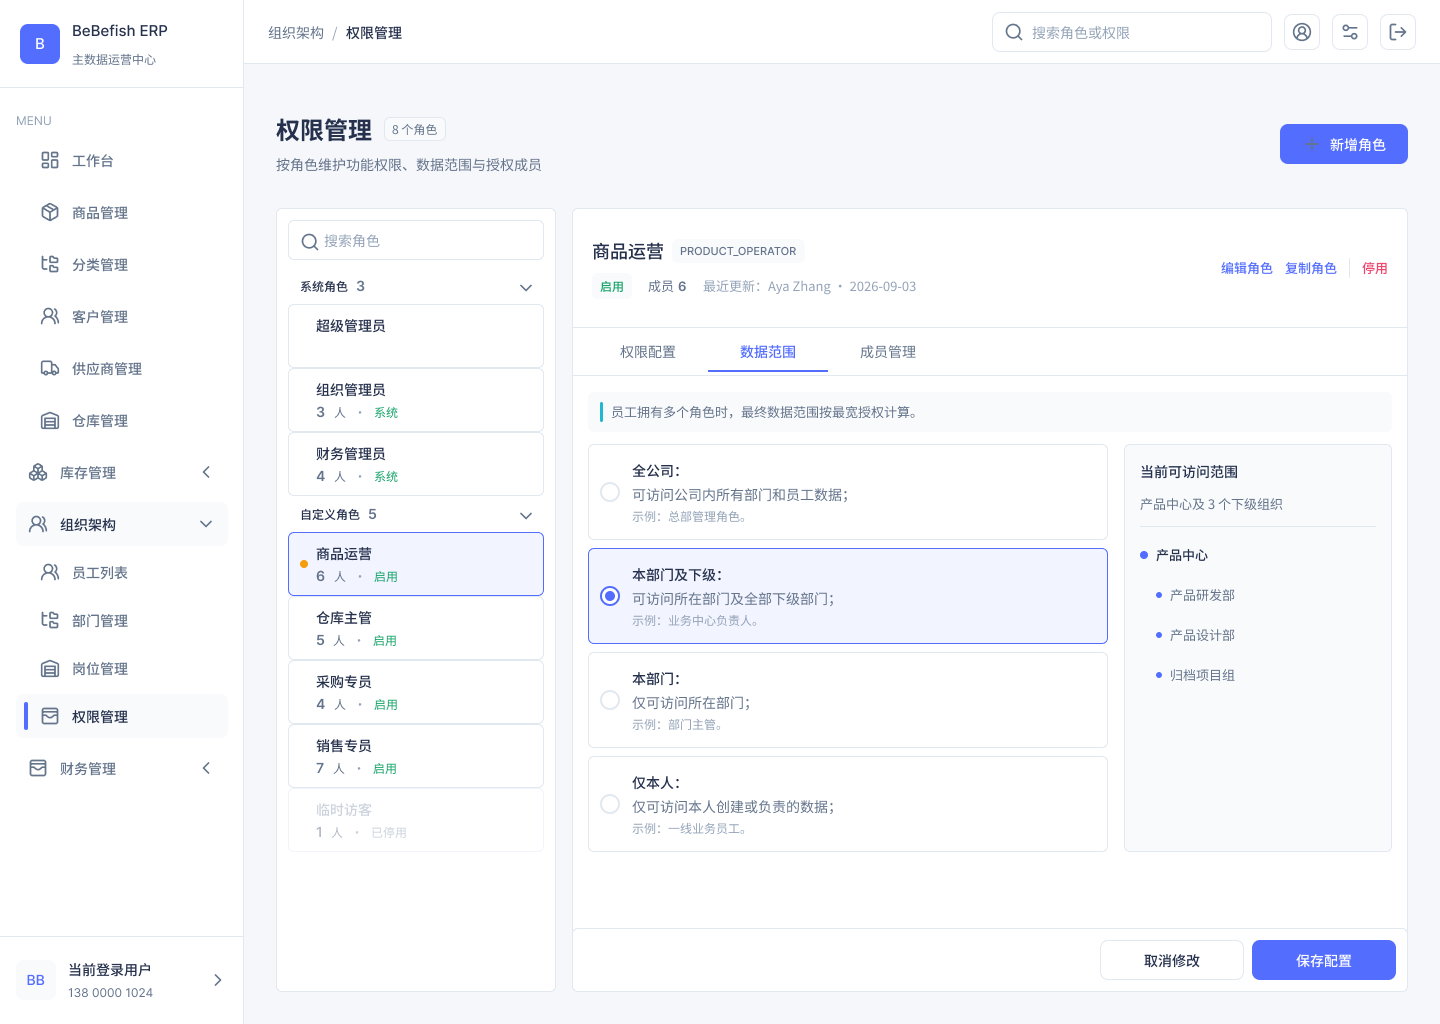
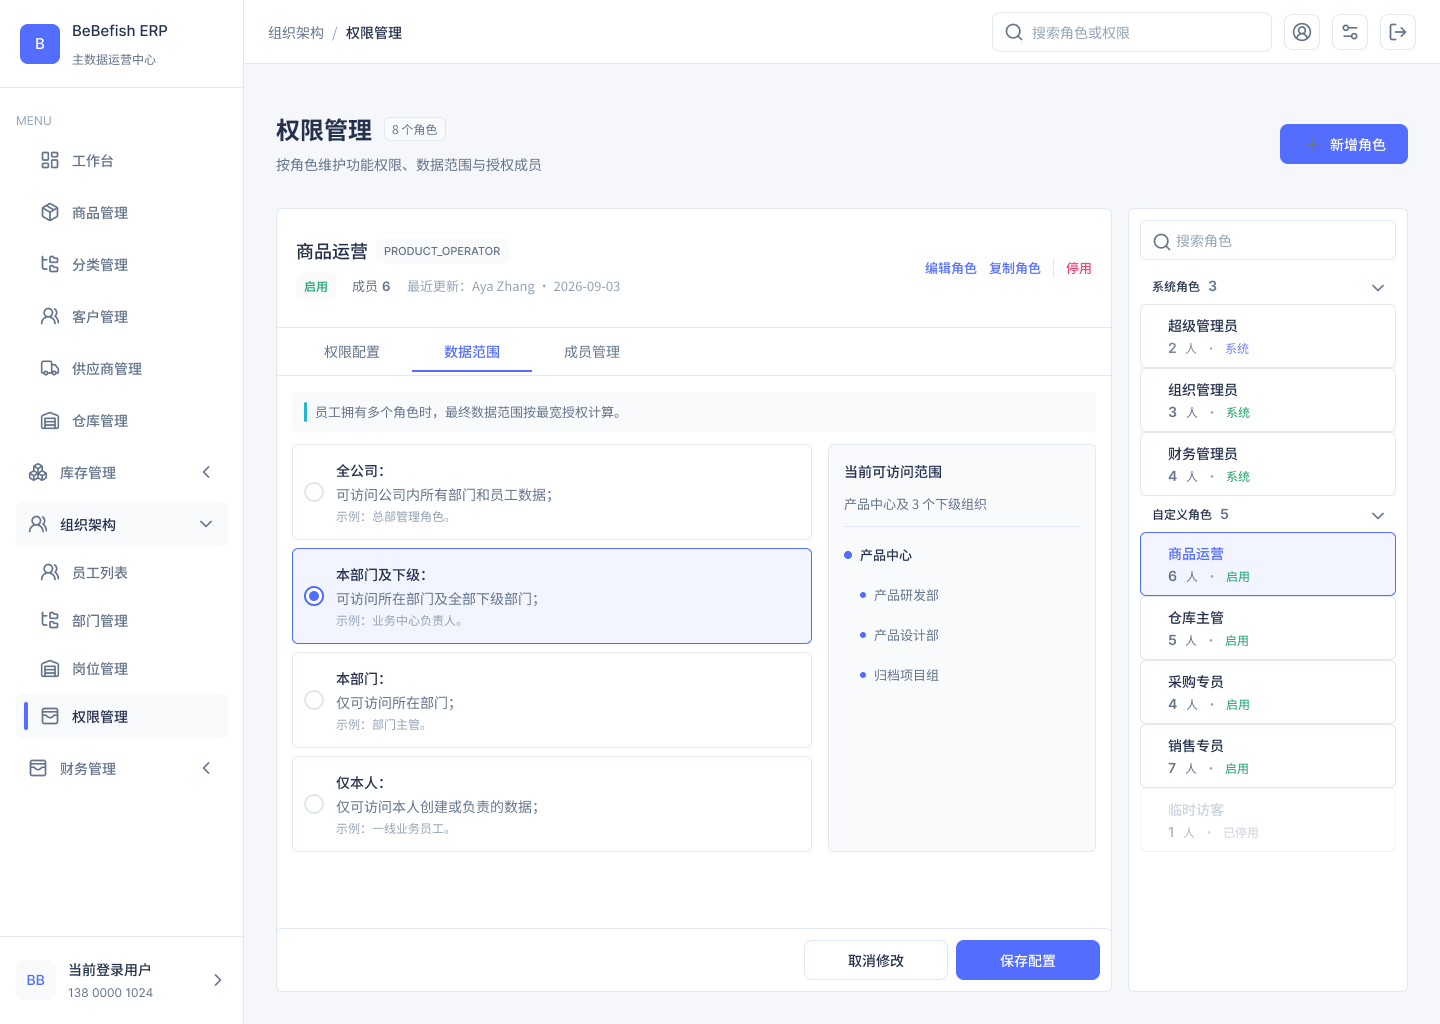
fix: complete permission prototype semantics

diff --git a/docs/superpowers/plans/2026-09-04-permission-management-figma-prototype.md b/docs/superpowers/plans/2026-09-04-permission-management-figma-prototype.md
@@ -609,13 +609,15 @@ Provide the user with the Figma prototype URL, the four local screenshot links, 
 
 ### Task 9: Final Review Against The Approved Spec
 
-- Status: `DONE`. Controller ruling preserved: acceptance states are interactive component variants and in-frame overlays inside the four accepted deliverables; auxiliary sets `641:14385`, `684:15789`, and `699:16557` remain in permission section `538:10667`, and no fifth deliverable was created.
+- Status: `DONE` after Fix Round 2. The controller ruling is preserved: exactly four top-level deliverables remain, while interactive acceptance states use in-frame overlays and auxiliary component sets `641:14385`, `684:15789`, `699:16557`, `740:18643`, and `741:18927` inside permission section `538:10667`; no fifth deliverable was created.
 - Six-section verdicts: 授权模型 `PASS`; 页面布局 `PASS`; 原型画面 `PASS`; 交互与状态 `PASS`; 视觉规范 `PASS`; 原型验收 `PASS`.
 - Figma: `https://www.figma.com/design/jIz9HNkSoXH63gvTc3yOtj/BeBefish-ERP-%E2%80%94-Master-Data-UI?node-id=572-11100&p=f`; file `jIz9HNkSoXH63gvTc3yOtj`, page `1:3`, permission section `538:10667`.
-- Exact deliverables: matrix `572:11100`, data scope `600:11953`, member management `622:12746`, and create-role drawer `626:13258`. Each is a direct child of `538:10667` and exactly `1440x1024`.
-- Presentation replay passed: initial Super Admin read-only; selectable Organization Admin read-only; current-role-hidden filter and clear; role-empty recovery; View-removal cancel/confirm and dependent-operation clearing; Add Member search/tree/select/batch-add, duplicate summary, and member-empty recovery; visible Save -> Saving -> Error -> Retry -> Success with switching/tabs/repeat-submit locked while Saving; deactivation cancel/confirm with affected-member count; all three tabs; Add Role, close/cancel, and Create returning to the selected editable role.
-- Focused Save fix mutated visible sources `I641:14012;548:10717` and `I693:14561;548:10717`, and moved saving notice `689:14487` to `12,730` within its `280x784` variant. Obsolete out-of-bounds helpers `692:14454`, `693:14513`, `693:14562`, `693:14611`, `696:15609`, and `696:15658` were deleted.
-- Final audits passed: `621` effectively visible deliverable instances with `0` orphan components; `181` Inter and `1669` Noto Sans SC styled segments across deliverables and acceptance sets; `0` font mismatches; `0` nonzero letter spacing; approved semantic color/token variables present; `110` reaction sources across `23` audited roots; `0` placeholders, visual overflow, or reaction-source overflow. Protected organization section `499:9745` remains unchanged with its five original frames.
[1 lines of base64/hex data omitted]
-- Repository scope before commit contains only this plan, the refreshed member screenshot, and the five explicitly allowed unrelated organization Vue/test edits. All four approved screenshot paths are included in the scoped staging command; Git records only the member PNG because the other three refreshed exports are byte-identical to their accepted versions.
+- Exact deliverables: matrix `572:11100`, data scope `600:11953`, member management `622:12746`, and create-role drawer `626:13258`; each is a direct child of `538:10667` and exactly `1440x1024`. Protected organization section `499:9745` remains `22720,0`, `4800x2368`, with children `499:9746`, `499:9909`, `499:10072`, `499:10235`, and `499:10398`.
+- Deterministic replay passed for Super Admin, Organization Admin, Product Operator, and newly created `CHANNEL_OPERATOR` across matrix/data/member tabs. System roles remain read-only; custom/new roles remain editable. Role filtering, clear/back, role/member empty recovery, Add Role close/cancel/Create, View-removal cancel/confirm, dependent-operation auto-selection, all unsaved-leave cancel/confirm routes, and deactivation cancel/confirm are reachable without dead ends.
+- Save preservation passed. Ordinary states keep the exact `3 Checked + 44 Unchecked + 13 NotApplicable` permission signature through Saving/Error/Retry/Success; View-cleared states keep `0 Checked + 47 Unchecked + 13 NotApplicable`. Visible Save and Retry sources enter origin-specific Saving variants, all six Saving variants have zero descendant reactions, Error preserves edits, and both Success variants show `最近更新：张振亚 · 刚刚` plus `保存成功`.
+- Add Member passed. The visible keyword control and 华东区域/产品中心 tree options reach candidate lists of `1`, `2`, and `2` members with clear paths. All eight selection combinations for 张晓/王晨/陈雯 are coherent; batch addition reports `3 processed = 2 added + 1 duplicate skipped`, updates the role count to `8`, renders the added identities in the result summary, and shows `共 8 人`.
+- Unique role creation passed with `渠道运营` / `CHANNEL_OPERATOR`, visible uniqueness success, selected editable matrix/data/member contexts, and RoleEmpty recovery. All four reviewed paginator `1` segments use Inter Regular with `0px` letter spacing.
+- Final audits passed: exact geometry/parents/names; component ancestry with `0` orphans; `271` reaction sources and `662` actions with `0` out-of-bounds sources, bad targets, or dead variants; `4221` text segments using only Inter/Noto Sans SC with `0` nonzero letter spacing; approved semantic tokens and radii with maximum non-circular radius `8`; `0` placeholders or audited-root overflow; and unchanged protected organization geometry.
[1 lines of base64/hex data omitted]
+- Repository scope is restricted to this Task 9 plan and the changed permission PNGs. The five pre-existing organization Vue/test edits remain unstaged and untouched.
 - Limitation: this is a Figma-only prototype. It does not implement or prove backend authorization, API enforcement, database behavior, persistence, real organization synchronization, or a production route.
